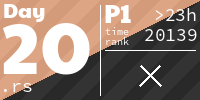
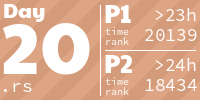
day22: part 1 solution

diff --git a/src/day22.rs b/src/day22.rs
@@ -1,0 +1,64 @@
+use aoc_runner_derive::{aoc, aoc_generator};
+
+fn evolve_secret(mut n: i64) -> i64 {
+    n = ((n * 64) ^ n) % 16777216;
+    n = ((n / 32) ^ n) % 16777216;
+    n = ((n * 2048) ^ n)  % 16777216;
+    n
+}
+
+fn rounds(mut secret: i64, n: i64) -> i64 {
+    for _ in 0..n {
+        secret = evolve_secret(secret)
+    }
+    secret
+}
+
+fn parse(input: &str) -> Vec<i64> {
+    input.lines().map(|l| l.parse().unwrap()).collect()
+}
+
+#[aoc(day22, part1)]
+fn part1(input: &str) -> i64 {
+    let secrets = parse(input);
+
+    secrets.iter().map(|s| rounds(*s, 2000)).sum::<i64>()
+}
+
+#[aoc(day22, part2)]
+fn part2(input: &str) -> i64 {
+    todo!()
+}
+
+
+#[cfg(test)]
+mod tests {
+    use super::*;
+    const EXAMPLE: &str = "1
+10
+100
+2024";
+
+    #[test]
+    fn evolution() {
+        assert_eq!(evolve_secret(123), 15887950);
+        assert_eq!(evolve_secret(15887950), 16495136);
+        assert_eq!(evolve_secret(16495136), 527345);
+    }   
+
+    #[test]
+    fn test_rounds() {
+        assert_eq!(rounds(1, 2000), 8685429);
+        assert_eq!(rounds(10, 2000), 4700978);
+    }   
+
+    #[test]
+    fn part1_example() {
+        assert_eq!(part1(EXAMPLE),37327623);
+    }
+
+    #[test]
+    fn part2_example() {
+        assert_eq!(part2(EXAMPLE), 0);
+    }
+}

diff --git a/src/lib.rs b/src/lib.rs
@@ -12,6 +12,7 @@ pub mod day19;
 pub mod day2;
 pub mod day20;
 pub mod day21;
+pub mod day22;
 pub mod day3;
 pub mod day4;
 pub mod day5;

diff --git a/README.md b/README.md
@@ -1,6 +1,6 @@
 <!-- AOC TILES BEGIN -->
 <h1 align="center">
-  2024 - 40 ⭐ - Rust
+  2024 - 43 ⭐ - Rust
 </h1>
 <a href="src/day1.rs">
   <img src=".aoc_tiles/tiles/2024/01.png" width="161px">
@@ -64,5 +64,8 @@
 </a>
 <a href="src/day21.rs">
   <img src=".aoc_tiles/tiles/2024/21.png" width="161px">
+</a>
+<a href="src/day22.rs">
+  <img src=".aoc_tiles/tiles/2024/22.png" width="161px">
 </a>
 <!-- AOC TILES END -->
